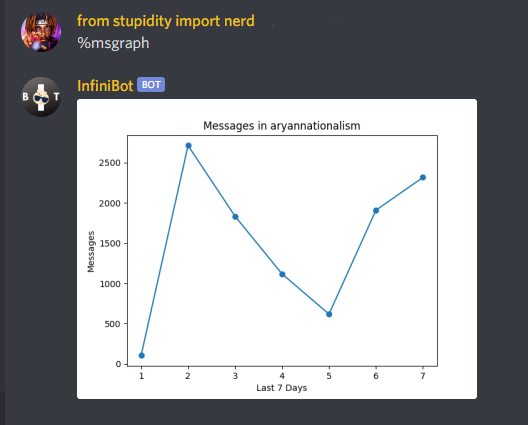
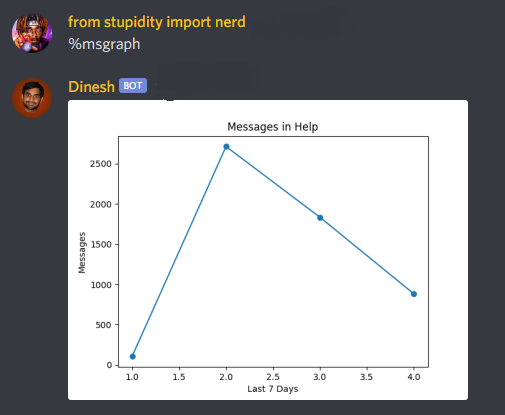
Add files via upload

diff --git a/index.html b/index.html
@@ -2,9 +2,9 @@
 <html lang="en">
 	<head>
 		<meta charset="utf-8" >
-		<title>InfiniBot</title>
+		<title>Discord Infinibot</title>
 		<meta name="viewport" content="width=device-width, initial-scale=1">
-				<link rel="icon" href="i/infinibot_Logo.png" type="image/x-icon">
+				<link rel="icon" href="i/favicon.png" type="image/x-icon">
 		<!-- Google Fonts -->
 				<link href="https://fonts.googleapis.com/css?family=Dosis:100,200,300,400,600,500,700,800,900|Open+Sans:100,200,300,400,500,600,700,800,900&amp;subset=latin" rel="stylesheet">
 				<!-- Bootstrap 4.3.1 CSS -->
@@ -21,14 +21,6 @@
 					<link href="css/style.css" rel="stylesheet" />
 				<!-- jQuery 3.3.1 -->
 		<script src="https://code.jquery.com/jquery-3.3.1.min.js"></script>
-		<!-- Global site tag (gtag.js) - Google Analytics -->
-		<script async src="https://www.googletagmanager.com/gtag/js?id=G-FMFXP1CBGW"></script>
-		<script>
-  			window.dataLayer = window.dataLayer || [];
-  			function gtag(){dataLayer.push(arguments);}
-  			gtag('js', new Date());
-  			gtag('config', 'G-FMFXP1CBGW');
-		</script>
 			</head> 
 <body style="background-color: #7289DA">
 <!-- Navigation 18 -->
@@ -37,12 +29,12 @@
 	<div class="container px-xl-0">
 		<div class="row justify-content-between align-items-center">
 			<div class="col-lg-auto text-lg-left" data-aos-duration="600" data-aos="fade-down" data-aos-delay="0">
-				<a href="#" class="logo link color-white">InfiniBot</a>
+				<a href="#" class="logo link color-white">Infinibot</a>
 			</div>
 			<div class="col-lg-9 text-lg-right" data-aos-duration="600" data-aos="fade-down" data-aos-delay="300">
 				<a href="#" class="link color-white mr-15">Documentation</a>
 				<a href="https://discord.com/oauth2/authorize?client_id=829464107710677022&permissions=4294442839&scope=bot" class="link color-white mx-15">Invite</a>
-				<a href="./about.html" class="link color-white mx-15">About</a>
+				<a href="#" class="link color-white mx-15">About</a>
 				<a href="#" class="link color-white mx-15">F.A.Q.</a>
 				<a href="#" class="link color-white mx-15">Support</a>
 				<a href="./terms.html" class="link color-white mx-15">Terms of Service</a>
@@ -61,8 +53,8 @@
 		<div class="row justify-content-center">
 			<div class="col-xl-9 col-lg-10">
 				<!-- to change image size change the 4x-->
-				<img srcset="i/infinibot_Logo.png 4x" src="i/infinibot_Logo.png" alt="" class="img-fluid radius30"  data-aos-duration="600" data-aos="fade-down" data-aos-delay="0"/>
-				<h2 class="mt-30 mb-20 small" data-aos-duration="600" data-aos="fade-down" data-aos-delay="300">InfiniBot</h2>
+				<img srcset="i/infinibot Logo.png 4x" src="i/infinibot Logo.png" alt="" class="img-fluid radius30"  data-aos-duration="600" data-aos="fade-down" data-aos-delay="0"/>
+				<h2 class="mt-30 mb-20 small" data-aos-duration="600" data-aos="fade-down" data-aos-delay="300">Infinibot</h2>
 			</div>
 			<div class="col-xl-4 col-lg-6 col-md-8 col-sm-10">
 				<div class="color-heading text-adaptive" data-aos-duration="600" data-aos="fade-down" data-aos-delay="600">
@@ -87,13 +79,13 @@
 			<div class="col-lg-5 col-md-7" data-aos-duration="600" data-aos="fade-down" data-aos-delay="0">
 				<h2 class="mt-20 mb-30 small">Detailed Server Insights</h2>
 				<div class="f-22 color-heading text-adaptive">
-					View your server's statistics in a simple yet informative graph.
+					With Infinibot, keeping track of your server is as easy as lifting your finger!
 				</div>
 				<!-- <a href="#" class="mt-30 btn border-gray color-main">Learn More</a> -->
 			</div>
 			<div class="col-md-1"></div>
 			<div class="col-lg-5 col-md-4" data-aos-duration="600" data-aos="fade-down" data-aos-delay="300">
-				<img srcset="i/serverinsights1.png" src="i/serverinsights1.png" class="img" style="border-radius: 30px 30px 30px 30px;" alt=""/>			
+				<img srcset="i/msggraphcinema.png" src="i/msggraphcinema.png" class="img-fluid img" style="border-radius: 30px 30px 30px 30px;" alt=""/>			
 			</div>
 		</div>
 		<div class="mt-75 row justify-content-center justify-content-md-between align-items-end align-items-lg-start flex-row-reverse row2">
@@ -101,14 +93,13 @@
 			<div class="col-lg-5 col-md-6 pb-60 pb-lg-0 inner2" data-aos-duration="600" data-aos="fade-down" data-aos-delay="0">
 				<h2 class="mt-55 mb-30 small">Powerful Moderation Commands</h2>
 				<div class="f-22 color-heading text-adaptive">
-					Let InfiniBot moderate for you!
+					Infinibot is one of the most powerful self-moderation bots out there. Complete with ghost-ping detections, a powerful logging system, and status updates, let Infinibot Moderate for you!
 				</div>
 				<!-- link to commands list, moderation -->
-				<a href="#" class="mt-30 btn border-gray color-main">Learn More</a>
 			</div>
 			<div class="col-md-1"></div>
 			<div class="col-xl-4 col-lg-5 col-md-5 col-sm-6 col-8" data-aos-duration="600" data-aos="fade-down" data-aos-delay="300">
-				<img srcset="i/moderation1mute.png" src="i/moderation1mute.png" class="img-fluid img" alt="" style="margin-top: 70px; border-radius: 30px 30px 30px 30px;">			
+				<img srcset="i/moderation1mute,infin.png" src="i/moderation1mute,infin.png" class="img-fluid img" alt="" style="margin-top: 70px; border-radius: 30px 30px 30px 30px;">			
 			</div>
 			<div class="col-xl-1"></div>
 		</div>
@@ -118,62 +109,30 @@
 				<h2 class="mt-20 mb-30 small">Fun Commands and Economy</h2>
 				<div class="f-22 color-heading text-adaptive">
 					<!-- add more content here -->
-					InfiniBot has a deep integration with multiple services, including the Urban Dictionary as well as crypto
+					Infinibot has a deep integration with multiple services, including the Urban Dictionary as well as crypto
 					wallets. 
 				</div>
 				<!-- <a href="#" class="mt-30 btn border-gray color-main">Learn More</a> -->
 			</div>
 			<div class="col-md-1"></div>
 			<div class="col-lg-5 col-md-4" data-aos-duration="600" data-aos="fade-down" data-aos-delay="300">
-				<img srcset="i/funcmdurban.png" src="i/funcmdurban.png" class="img" alt="" style="border-radius: 30px 30px 30px 30px;"/>			
+				<img srcset="i/funcmdurban,infin.png" src="i/funcmdurban,infin.png" class="img" alt="" style="border-radius: 30px 30px 30px 30px;"/>			
 			</div>
-		</div>
-		<div class="mt-75 row justify-content-center justify-content-md-between align-items-end align-items-lg-start flex-row-reverse row2", style="margin-bottom: 50px;">
-			<div class="col-xl-1"></div>
-			<div class="col-lg-5 col-md-6 pb-60 pb-lg-0 inner2" data-aos-duration="600" data-aos="fade-down" data-aos-delay="0">
-				<h2 class="mt-55 mb-30 small">Never miss an event</h2>
-				<div class="f-22 color-heading text-adaptive">
-					InfiniBot has a powerful logging system. Forget about waiting minutes for logs from other 
-					bots. InfiniBot does it quicker.
-				</div>
-				<!-- link to commands list, moderation -->
-				<a href="#" class="mt-30 btn border-gray color-main">Learn More</a>
-			</div>
-			<div class="col-md-1"></div>
-			<div class="col-xl-4 col-lg-5 col-md-5 col-sm-6 col-8" data-aos-duration="600" data-aos="fade-down" data-aos-delay="300">
-				<img srcset="i/logmsgdelete.png" src="i/logmsgdelete.png" class="img-fluid img" alt="" style="margin-top: 70px; border-radius: 30px 30px 30px 30px;">			
-			</div>
-			<div class="col-xl-1"></div>
-		</div>
-		<div class="row align-items-center align-items-lg-start", style = "margin-top: 130px">
-			<div class="col-xl-1"></div>
-			<div class="col-lg-5 col-md-7" data-aos-duration="600" data-aos="fade-down" data-aos-delay="0">
-				<h2 class="mt-20 mb-30 small">Anti-Ghost Ping</h2>
-				<div class="f-22 color-heading text-adaptive">
-					<!-- add more content here -->
-					Ghost pings? With InfiniBot, catch the perpetator and hold them publicly accountable with 
-					ghost ping detection that accounts for everything.
-				</div>
-				<!-- <a href="#" class="mt-30 btn border-gray color-main">Learn More</a> -->
-			</div>
-			<div class="col-md-1"></div>
-			<div class="col-lg-5 col-md-4" data-aos-duration="600" data-aos="fade-down" data-aos-delay="300">
-				<img srcset="i/antighostping1.png" src="i/antighostping1.png" class="img" alt="" style="border-radius: 30px 30px 30px 30px"/>			
-			</div>
+
 		</div>
 		<div class="mt-75 row justify-content-center justify-content-md-between align-items-end align-items-lg-start flex-row-reverse row2", style="margin-bottom: 50px;">
 			<div class="col-xl-1"></div>
 			<div class="col-lg-5 col-md-6 pb-60 pb-lg-0 inner2" data-aos-duration="600" data-aos="fade-down" data-aos-delay="0">
 				<h2 class="mt-55 mb-30 small">Music</h2>
 				<div class="f-22 color-heading text-adaptive">
-					Have audio streaming at 320kbps, for free. Supports links and queries.
+					We partered with <a href= "https://djflame.tech/" style="color: #7289DA;"> DJ Flame</a> technology, to provide audio streaming at 320kbps, for free. Supports links and queries.
 				</div>
 				<!-- link to commands list, moderation -->
 				<!-- <a href="#" class="mt-30 btn border-gray color-main"></a> -->
 			</div>
 			<div class="col-md-1"></div>
 			<div class="col-xl-4 col-lg-5 col-md-5 col-sm-6 col-8" data-aos-duration="600" data-aos="fade-down" data-aos-delay="300">
-				<img srcset="i/music1.png" src="i/music1.png" class="img-fluid img" alt="" style="margin-top: 70px; border-radius: 30px 30px 30px 30px;">			
+				<img srcset="i/rickrollhehe.png" src="i/rickrollhehe.png" class="img-fluid img" alt="" style="margin-top: 70px; border-radius: 30px 30px 30px 30px;">			
 			</div>
 			<div class="col-xl-1"></div>
 		</div>
@@ -184,11 +143,11 @@
 <section class="content_31 bg-dark pt-100 pb-70 text-center color-white" style="background-color: #7289DA;">
 	<div class="container px-xl-0">
 		<div class="row justify-content-center">
-			<h2 class="small col-lg-8" data-aos-duration="600" data-aos="fade-down" data-aos-delay="0">What sets InfiniBot apart</h2>
+			<h2 class="small col-lg-8" data-aos-duration="600" data-aos="fade-down" data-aos-delay="0">What sets Infinibot apart</h2>
 			<div class="col-lg-8 mt-25 mb-55 f-18 medium op-7 text-adaptive">
 				<span data-aos-duration="600" data-aos="fade-down" data-aos-delay="300">				
 				Instead of having multiple bots in your server, why not have one, all-powerful one?<br />
-				InfiniBot compromises on nothing, as is often the case with other all-in-one bots.</span>				
+				Infinibot compromises on nothing, as is often the case with other all-in-one bots.</span>				
 			</div>
 		</div>
 		<div class="row justify-content-center">
@@ -252,7 +211,7 @@
 			<div class="col-xl-8 col-lg-10 text-center" data-aos-duration="600" data-aos="fade-down" data-aos-delay="0">
 				<h4>
 					Gone are the days where multiple bots were neccesary for a Discord Server. 
-					Now almost every task can be accomplished with InfiniBot!
+					Now almost every task can be accomplished with Infinibot!
 				</h4>
 			</div>
 			<div class="col-xl-11 text-center" data-aos-duration="600" data-aos="fade-down" data-aos-delay="300">
@@ -264,7 +223,7 @@
 			<div class="col-xl-5 col-md-6 mb-40" data-aos-duration="600" data-aos="fade-down" data-aos-delay="0">
 				<div class="mb-20 f-18 medium title">Open-Source</div>
 				<div class="color-heading text-adaptive">
-					The entirety of InfiniBot's code is on GitHub, for you to see exactly what happens 
+					The entirety of Infinibot's code is on GitHub, for you to see exactly what happens 
 					behind the scenes. 
 				</div>
 			</div>
@@ -346,7 +305,7 @@
 	<div class="container px-xl-0">
 		<div class="row align-items-center">
 			<div class="mb-20 mb-lg-0 col-lg-3" data-aos-duration="600" data-aos="fade-down" data-aos-delay="0">
-				<a href="#" class="logo link color-white">InfiniBot</a>
+				<a href="#" class="logo link color-white">Infinibot</a>
 			</div>
 			<div class="col-lg-9 text-lg-right" data-aos-duration="600" data-aos="fade-down" data-aos-delay="300">
 				<a href="./terms.html" class="link color-white mr-10">Privacy Policy</a>
@@ -372,7 +331,7 @@
 			</div>
 			<div class="col-lg-5 text-lg-right" data-aos-duration="600" data-aos="fade-down" data-aos-delay="300">
 				<div class="text-adaptive">
-					&copy; 2021 InfiniBot. All rights reserved.
+					&copy; 2021 Infinibot. All rights reserved.
 				</div>
 			</div>
 		</div>
